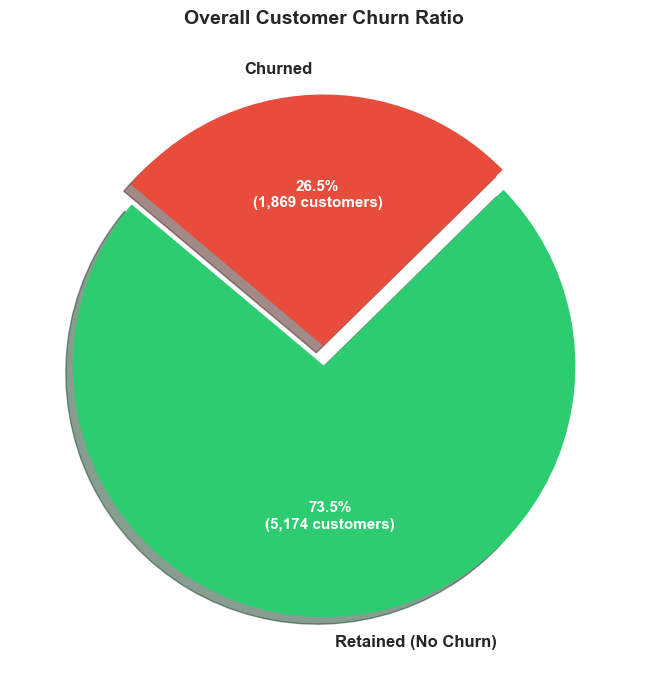
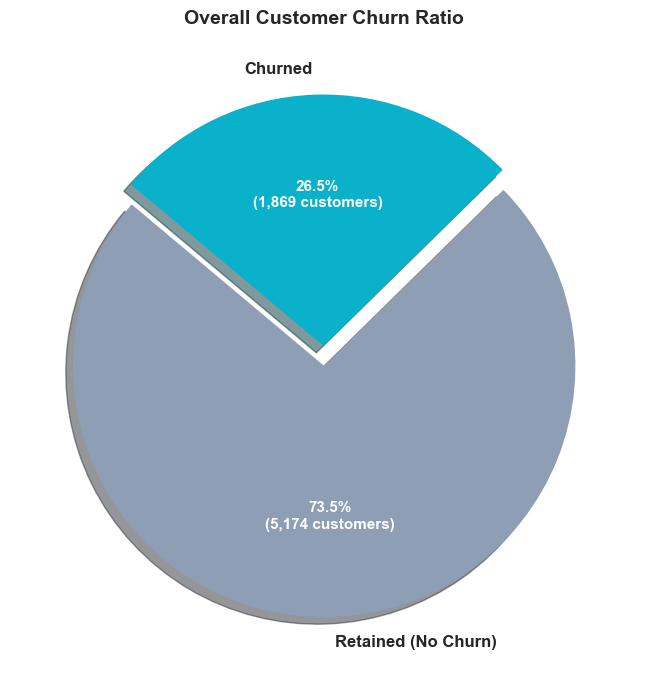
readme

diff --git a/README.md b/README.md
@@ -178,6 +178,31 @@ To understand the critical attrition windows, customer churn rate was evaluated 
 
 ---
 
+## Overall Class Distribution
+
+Before executing machine learning pipeline experiments, the target class distribution ($y = \text{Churn}$) was analyzed to determine dataset balance and guide imbalance mitigation strategies.
+
+### Visual Analysis: Overall Customer Churn Ratio
+
+- **Retained Customers (Class 0):** Represent the clear majority of the dataset at **73.5% (5,174 customers)**.
+- **Churned Customers (Class 1):** Comprise the minority class at **26.5% (1,869 customers)**.
+- **Class Ratio:** The dataset exhibits a baseline class imbalance ratio of approximately **2.77 : 1** (or ~73:27).
+
+---
+
+### Core Business & Modeling Implications
+
+1. **Target Class Imbalance Detection:**
+   - Standard accuracy metrics will be misleading. A naive model predicting all accounts as "Retained" would achieve a deceptively high baseline accuracy of **73.5%** while completely failing to identify actual churn risks.
+2. **Justification for Advanced Resampling & Weight Scaling:**
+   - The ~26.5% minority representation confirms the necessity of class imbalance techniques implemented in subsequent modeling phases:
+     - **Cost-Sensitive Weighting:** Calculating `scale_pos_weight` ($\approx 2.78$) for gradient boosting models (XGBoost & LightGBM) to penalize False Negative errors.
+     - **Synthetic Sampling:** Applying SMOTE on linear models (Logistic Regression) and baseline ANNs to prevent voting bias toward the majority class.
+3. **Metric Selection:**
+   - Evaluation focus must shift away from Accuracy toward **Recall** (capturing maximum churners), **F1-Score**, and **ROC-AUC** to balance precision-recall trade-offs effectively.
+
+---
+
 ## Technical Pipeline & Experiment Architecture
 
 ```mermaid
